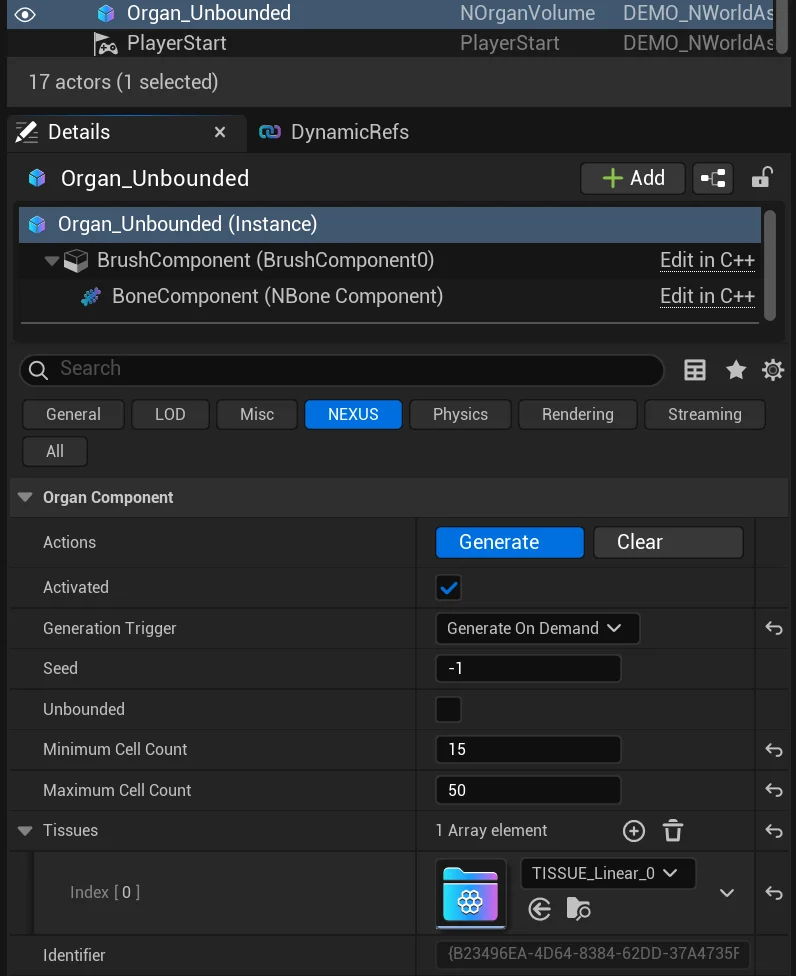
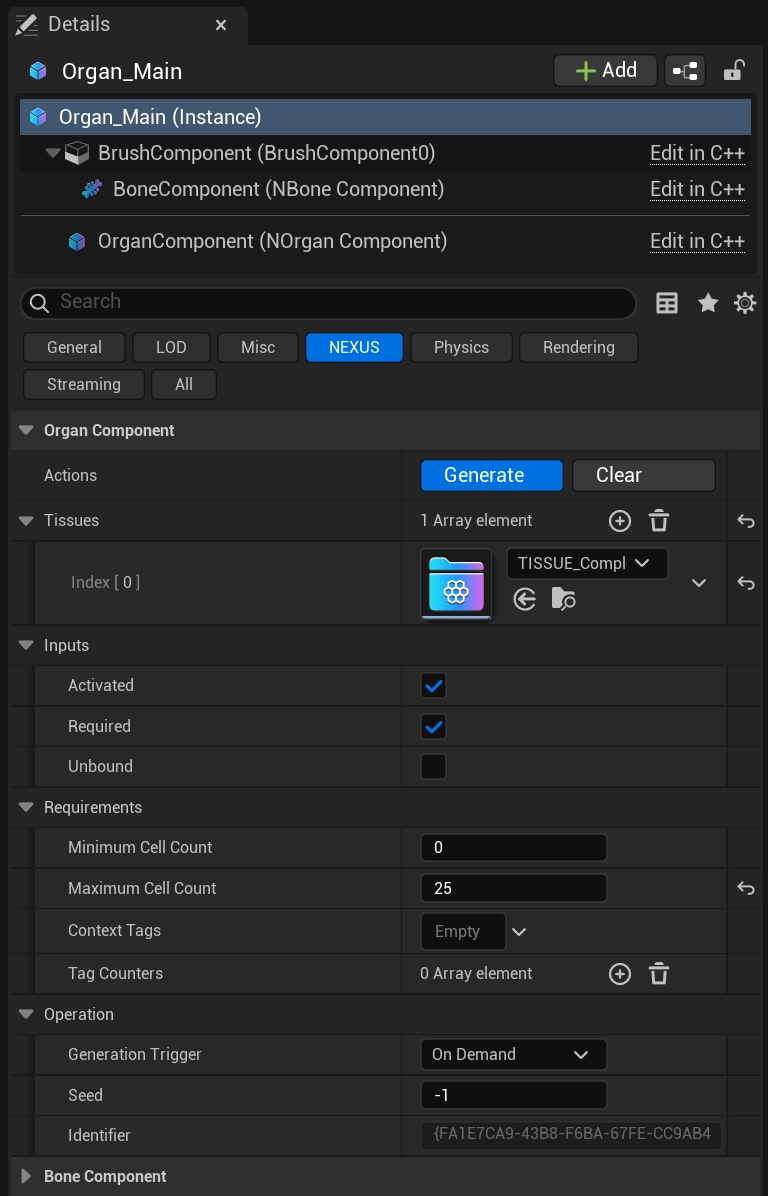
New organ requirements

Changed region(s): [[0.0, 0.0, 1.0, 1.0], [0.7812, 0.5533, 0.8438, 0.584], [0.9688, 0.7377, 1.0, 0.7684]]

diff --git a/docs/plugins/world-assembly/types/organ-volume.md b/docs/plugins/world-assembly/types/organ-volume.md
@@ -1,7 +1,7 @@
 ---
 description: A spatial volume that defines where World Assembly of Cells (via Tissues) should be generated.
 sidebar_class_name: type ue-volume
-tags: [0.3.0, 0.3.1]
+tags: [0.3.0, 0.3.1, 0.3.2]
 ---
 
 import TypeDetails from '../../../../src/components/TypeDetails';
@@ -35,13 +35,31 @@ When you have an Organ selected, its component has some action buttons available
 
 ![Organ Component Details](organ-component-details.webp)
 
+### Tissues
+
+An array of [Tissues](../types/tissue.md) defining what should be used to populate an Organ. 
+
+### Inputs
+
 | Setting | Type | Description | Default |
 |---|---|---|---|
 | Activated | `bool` | Should this Organ be included in World Assembly? | `true` |
+| Required | `bool` | Is a successful generation of this organ required for the whole assembly operation to be considered successful? | `true` |
+| Unbounded | `bool` | Should the Organ **NOT** enforce that placed Cells during generation fall within its bounds / brush. | `false` |
+
+### Requirements
+
+| Setting | Type | Description | Default |
+|---|---|---|---|
+| Minimum Cell Count | `int32` | An optional minimum required placed cell count that will invalidate an assembly operation if it is not met. `0` leaves this feature disabled. | `0` |
+| Maximum Cell Count | `int32` | An optional maximum required placed cell count that will invalidate an assembly operation if it is not met. `0` leaves this feature disabled. | `0` |
+| Context Tags | `FGameplayTagContainer` | A collection of `Context Tags` which must be present for the Organ to be generated successfully. | `(Empty)` |
+| Tag Counters | `TArray<FNGameplayTagCounterConstraint>` | A set of constraints that are evaluated to determine if the Organ was successfully generated. | `(Empty)` |
+
+### Operation
+
+| Setting | Type | Description | Default |
+|---|---|---|---|
 | Generation Trigger | `ENOrganGenerationTrigger` | Determine if the Organ should automatically queue itself for generation on `Begin Play` or indicate that it will be manually generated `On Demand`. | `OnDemand` |
 | Seed | `int32` | Overrides the seed passed to the `FNVirtualOrganContext`, used for deterministic random for this given Organ during its assembly operation. If the value is `-1` it will not override, and preserves the passed seed. | `-1` |
-| Unbounded | `bool` | Should the Organ **NOT** enforce that placed Cells during generation fall within its bounds / brush. | `false` |
-| Minimum Cell Count | `int32` | An optional minimum required placed cell count that will invalidate an assembly operation if it is not met. `-1` leaves this feature disabled. | `-1` |
-| Maximum Cell Count | `int32` | An optional maximum required placed cell count that will invalidate an assembly operation if it is not met. `-1` leaves this feature disabled. | `-1` |
-| Tissues | `TArray<UNTissue>` | An array of [Tissues](../types/tissue.md) defining what should be used to populate an Organ. | `(empty)` |
 | Identifier | `FGuid` | A constructor generated identifier used to sort Organs. | `<ctor>` |